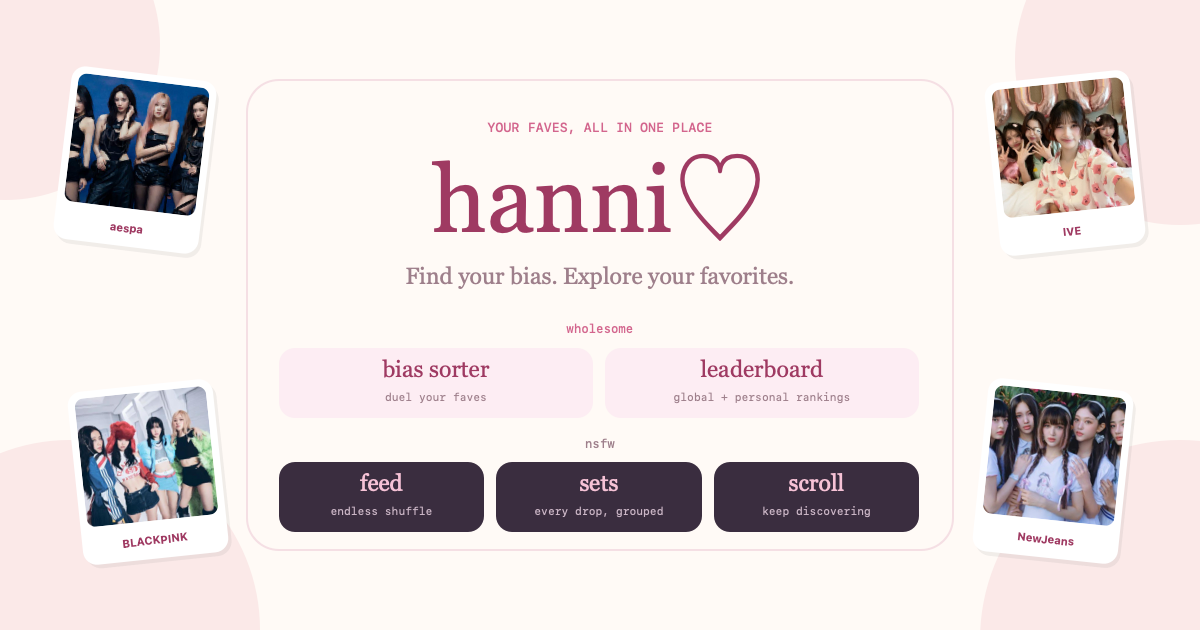
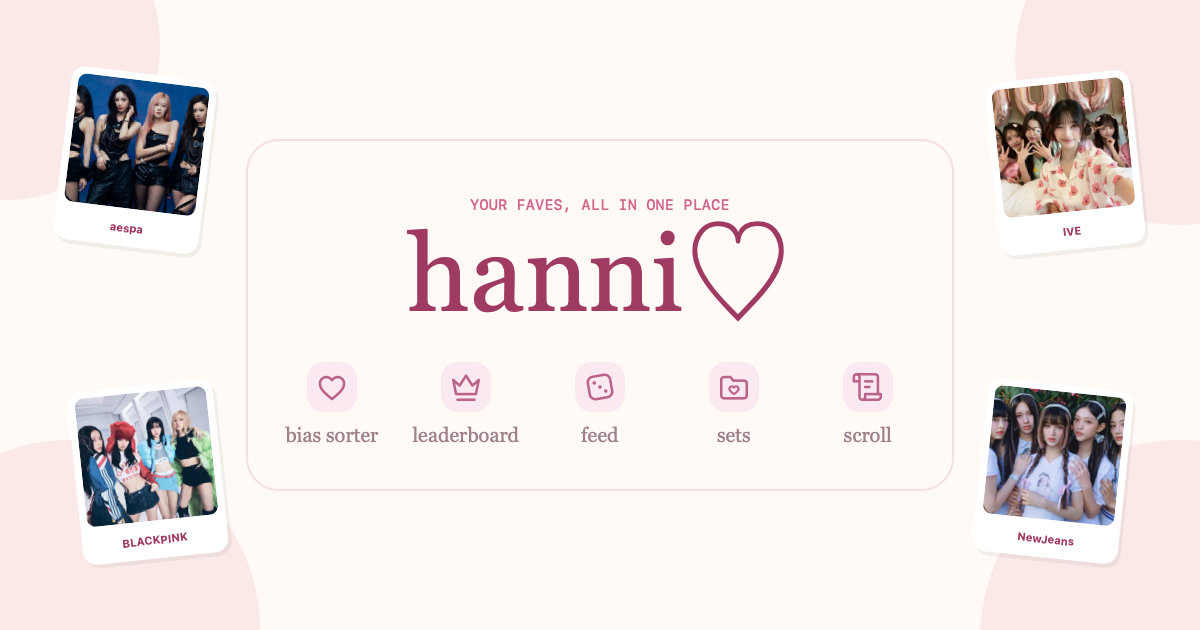
social media changes

diff --git a/scripts/make_social_preview.swift b/scripts/make_social_preview.swift
@@ -47,36 +47,33 @@ func rounded(_ rect: NSRect, radius: CGFloat) -> NSBezierPath {
   NSBezierPath(roundedRect: rect, xRadius: radius, yRadius: radius)
 }
 
-// Keep the photo-card frame while introducing the full hanni feature set.
-let titlePanel = NSRect(x: 247, y: 80, width: 706, height: 470)
+// A simple brand and feature line framed by the original photo cards.
+let titlePanel = NSRect(x: 247, y: 140, width: 706, height: 350)
 paper.setFill(); rounded(titlePanel, radius: 32).fill()
 NSColor(calibratedRed: 0.95, green: 0.84, blue: 0.87, alpha: 1).setStroke()
 let panelOutline = rounded(titlePanel, radius: 32); panelOutline.lineWidth = 2; panelOutline.stroke()
-centerText("YOUR FAVES, ALL IN ONE PLACE", y: 495, font: .monospacedSystemFont(ofSize: 13, weight: .medium), color: pink)
-centerText("hanni♡", y: 377, font: NSFont(name: "Georgia", size: 94) ?? .systemFont(ofSize: 94), color: berry)
-centerText("Find your bias. Explore your favorites.", y: 341, font: NSFont(name: "Georgia", size: 23) ?? .systemFont(ofSize: 23), color: muted)
-centerText("wholesome", y: 294, font: .monospacedSystemFont(ofSize: 12, weight: .medium), color: pink)
-func feature(_ title: String, _ subtitle: String, x: CGFloat, y: CGFloat, width: CGFloat, dark: Bool) {
-  let rect = NSRect(x: x, y: y, width: width, height: 70)
-  let fill = dark ? NSColor(calibratedRed: 0.17, green: 0.13, blue: 0.19, alpha: 1) : NSColor(calibratedRed: 0.99, green: 0.91, blue: 0.94, alpha: 1)
-  fill.setFill(); rounded(rect, radius: 16).fill()
-  let titleColor = dark ? NSColor(calibratedRed: 0.95, green: 0.70, blue: 0.80, alpha: 1) : berry
-  let subtitleColor = dark ? NSColor(calibratedRed: 0.75, green: 0.65, blue: 0.73, alpha: 1) : muted
-  for (text, offset, font, color) in [
-    (title, CGFloat(36), NSFont(name: "Georgia", size: 23) ?? .systemFont(ofSize: 23), titleColor),
-    (subtitle, CGFloat(14), NSFont.monospacedSystemFont(ofSize: 11, weight: .regular), subtitleColor)
-  ] {
-    let attributes: [NSAttributedString.Key: Any] = [.font: font, .foregroundColor: color]
-    let textWidth = (text as NSString).size(withAttributes: attributes).width
-    text.draw(at: NSPoint(x: x + (width - textWidth) / 2, y: y + offset), withAttributes: attributes)
+centerText("YOUR FAVES, ALL IN ONE PLACE", y: 416, font: .monospacedSystemFont(ofSize: 15, weight: .medium), color: pink)
+centerText("hanni♡", y: 295, font: NSFont(name: "Georgia", size: 108) ?? .systemFont(ofSize: 108), color: berry)
+// Render the same SVG symbols used by the site, so the preview stays in sync.
+let iconDocument = try XMLDocument(contentsOf: root.appendingPathComponent("static/icons.svg"))
+let features = [("bias sorter", "i-heart"), ("leaderboard", "i-crown"), ("feed", "i-dice"), ("sets", "i-folder"), ("scroll", "i-swirl")]
+for (index, feature) in features.enumerated() {
+  let centerX = CGFloat(332 + index * 134)
+  let badge = NSRect(x: centerX - 25, y: 218, width: 50, height: 50)
+  NSColor(calibratedRed: 0.98, green: 0.89, blue: 0.93, alpha: 1).setFill()
+  rounded(badge, radius: 17).fill()
+  guard let symbol = try iconDocument.nodes(forXPath: "//*[@id='\(feature.1)']").first?.copy() as? XMLElement else { fatalError("Missing icon: \(feature.1)") }
+  symbol.name = "svg"
+  symbol.addNamespace(XMLNode.namespace(withName: "", stringValue: "http://www.w3.org/2000/svg") as! XMLNode)
+  for (key, value) in [("width", "96"), ("height", "96"), ("color", "#bb638b")] {
+    symbol.addAttribute(XMLNode.attribute(withName: key, stringValue: value) as! XMLNode)
   }
+  guard let icon = NSImage(data: symbol.xmlString.data(using: .utf8)!) else { fatalError("Cannot render SVG: \(feature.1)") }
+  icon.draw(in: NSRect(x: centerX - 17, y: 226, width: 34, height: 34))
+  let font = NSFont(name: "Georgia", size: 20) ?? .systemFont(ofSize: 20)
+  let width = (feature.0 as NSString).size(withAttributes: [.font: font]).width
+  drawText(feature.0, at: NSPoint(x: centerX - width / 2, y: 184), font: font, color: muted)
 }
-feature("bias sorter", "duel your faves", x: 279, y: 212, width: 314, dark: false)
-feature("leaderboard", "global + personal rankings", x: 605, y: 212, width: 314, dark: false)
-centerText("nsfw", y: 179, font: .monospacedSystemFont(ofSize: 12, weight: .medium), color: muted)
-feature("feed", "endless shuffle", x: 279, y: 98, width: 205, dark: true)
-feature("sets", "every drop, grouped", x: 496, y: 98, width: 206, dark: true)
-feature("scroll", "keep discovering", x: 714, y: 98, width: 205, dark: true)
 
 func drawPhotoCard(name: String, file: String, x: CGFloat, y: CGFloat, angle: CGFloat) {
   let cardSize = NSSize(width: 146, height: 174)

diff --git a/templates/_social_meta.html b/templates/_social_meta.html
@@ -1,5 +1,5 @@
-{% set social_title = 'hanni♡ · find your bias, explore your favorites' %}
-{% set social_description = 'Duel your K-pop faves in the bias sorter, explore global and personal leaderboards, and discover the NSFW feed, sets, and scroll.' %}
+{% set social_title = 'hanni♡' %}
+{% set social_description = 'Sort your biases and explore your favorites.' %}
 {% set social_image = request.url_for('static', path='og-image.png') | string %}
 <meta property="og:type" content="website" />
 <meta property="og:site_name" content="hanni♡" />
